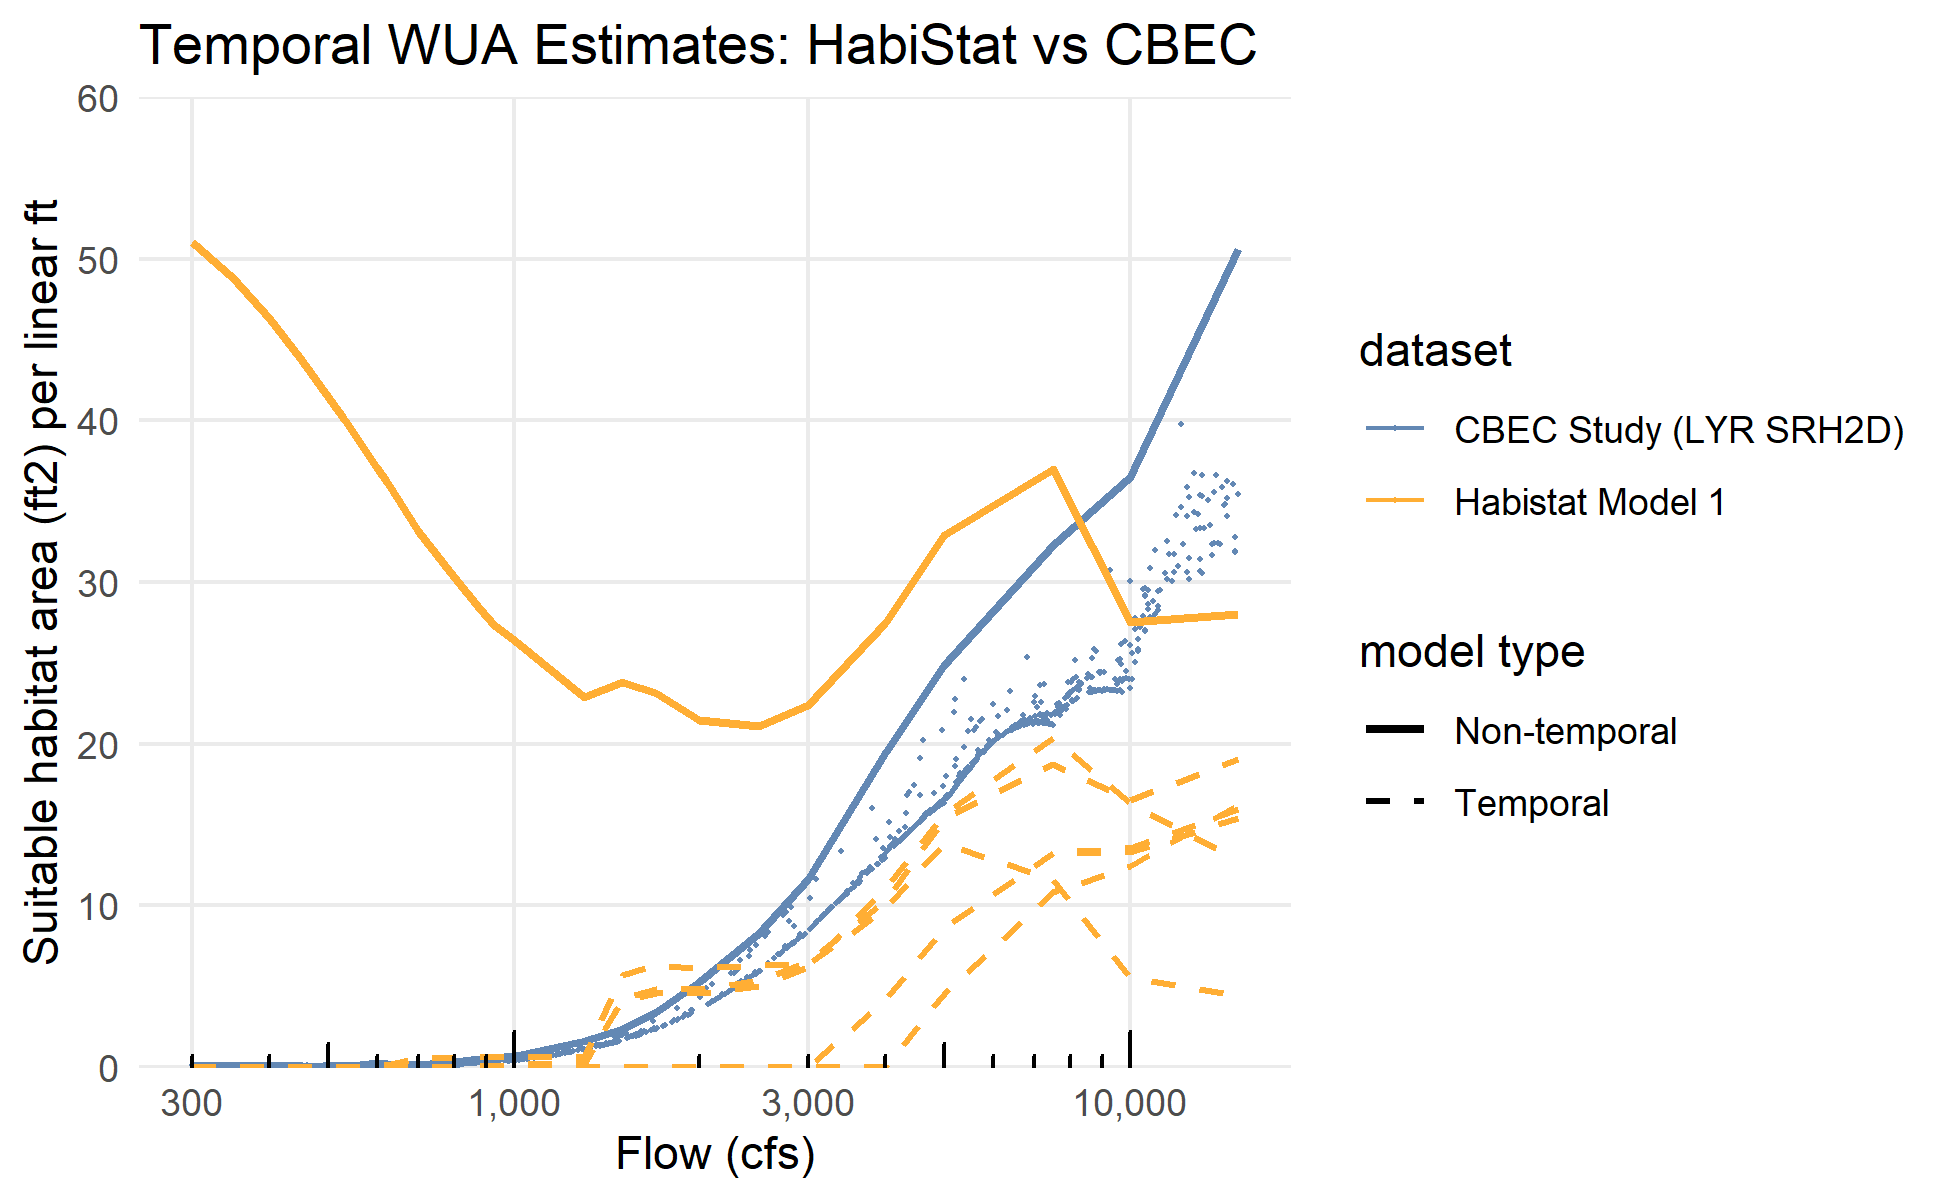
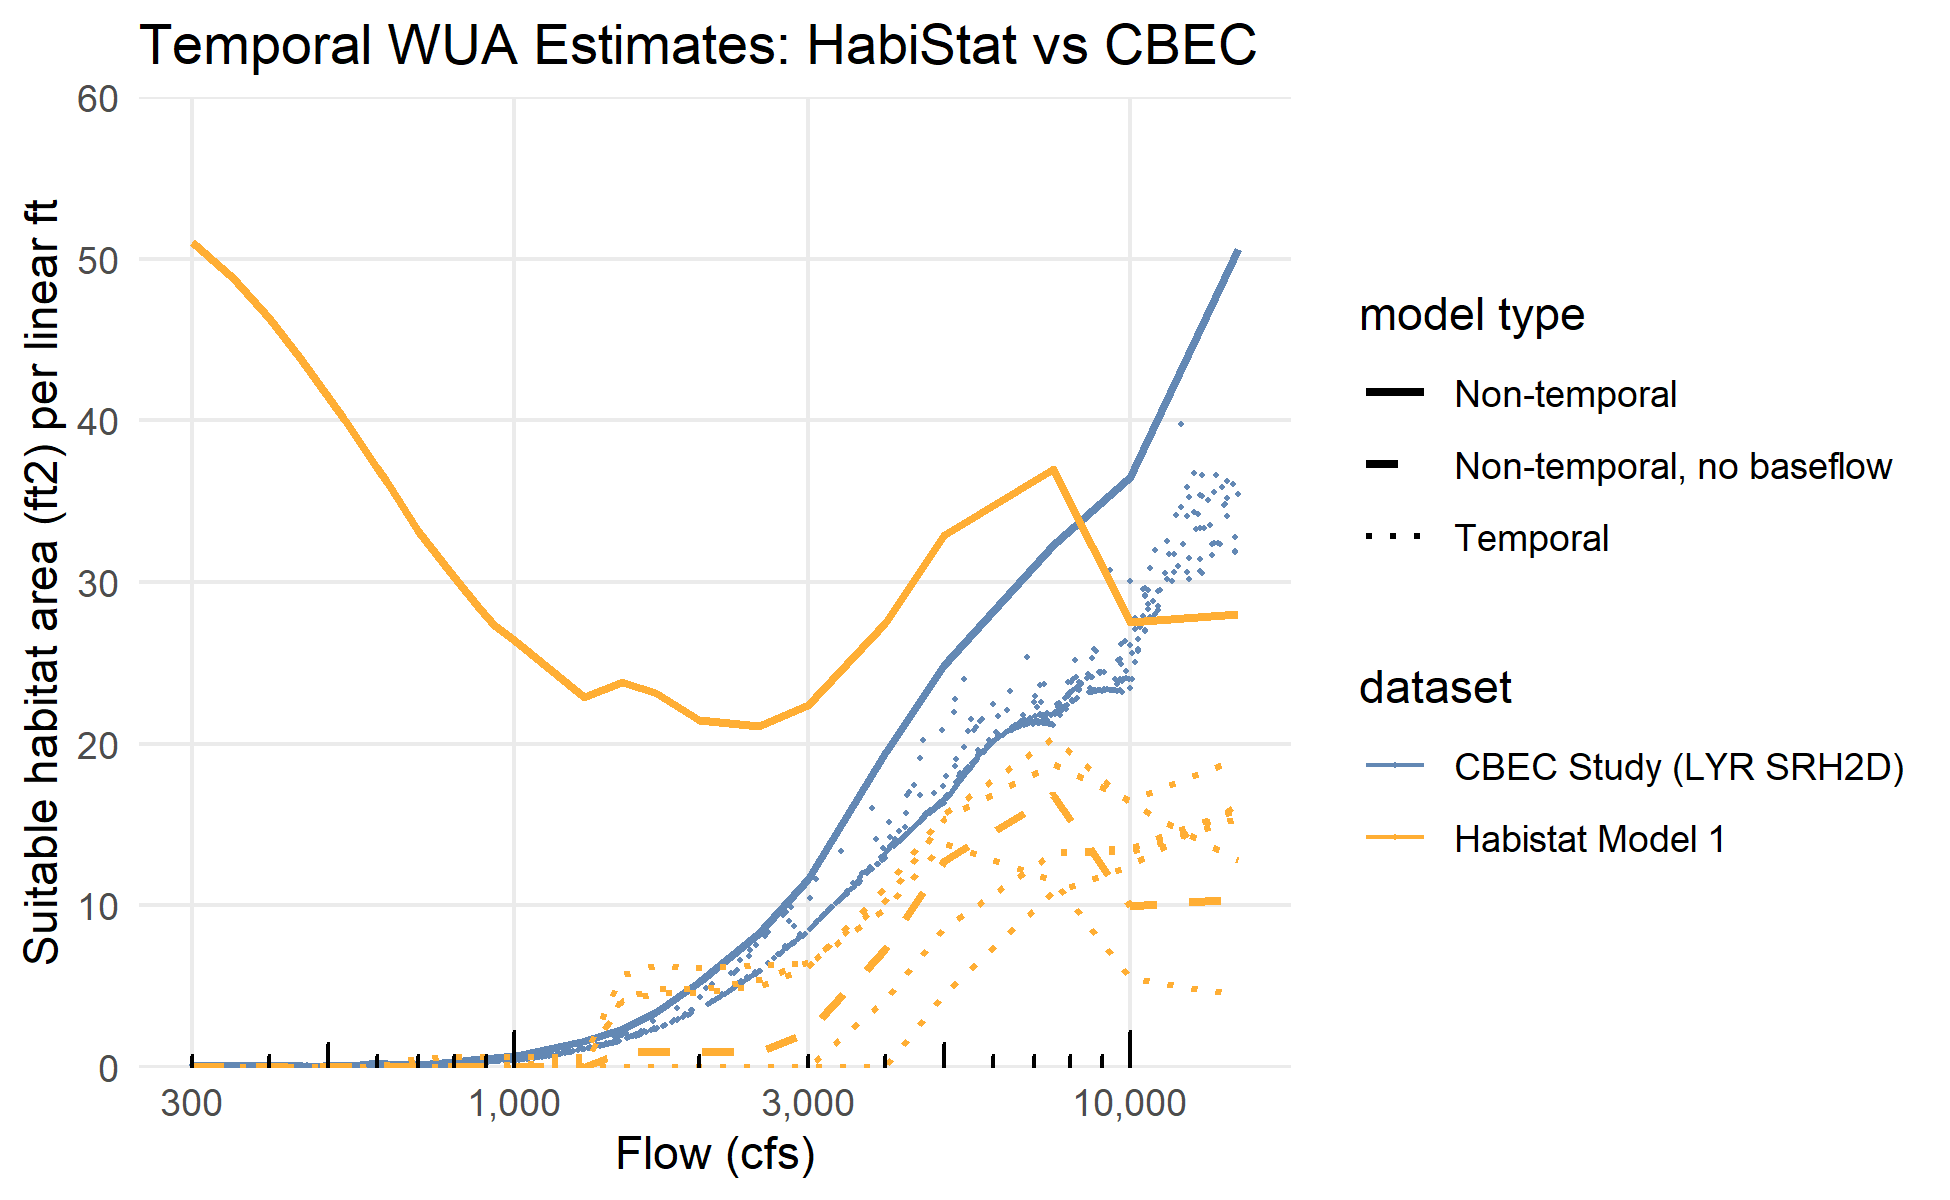
baseflow elimination shortcut function; move inundation duration and baseflow functions to separate file

diff --git a/data-raw/scripts/inundation-duration.md b/data-raw/scripts/inundation-duration.md
@@ -17,6 +17,7 @@ Flow Data Analysis for Inundation Duration HSI Component
   - [Version 1 (skip down to “Revised Version
     2”)](#version-1-skip-down-to-revised-version-2)
   - [Revised Version 2](#revised-version-2)
+- [Baseflow Elimination](#baseflow-elimination)
 - [Floodplain-Instream Split](#floodplain-instream-split)
 
 Duration suitability criteria from the CBEC LYR analysis and HQT are:
@@ -48,6 +49,7 @@ knitr::opts_chunk$set(eval=TRUE, fig.width=6.5, fig.height=4, dpi=300)
 theme_set(theme_minimal())
 
 source(here::here("data-raw", "scripts", "data-functions.R"))
+source(here::here("data-raw", "scripts", "inundation-duration-functions.R"))
 
 test_comids <- c(12071016, 12071090, 12071178, 12071286, 12075424, 7981730, 7981752, 7981808, 7981872, 7981878, 7981882, 7982794, 7982804, 7982810, 7982884, 7982886, 2819792, 2819796, 2819800, 2819818, 2819824, 2819862, 2821822, 2821824, 2821830, 2821832, 2821836)
 ```
@@ -82,41 +84,6 @@ water_year_types <- read_csv(here::here("data-raw", "source", "water_year_type",
     ## ℹ Specify the column types or set `show_col_types = FALSE` to quiet this message.
 
 ## Import Flow Time Series Data
-
-``` r
-# functions from interoperable flows
-
-retrieve_cdec_csv <- function(sta=character(), sen=character(), dur=character(), 
-                     start_date=ymd("1900-10-01"), end_date=ymd("2023-09-30"),
-                     dir="temp") {
-  name <- str_to_upper(paste0(sta, "_", sen, "_", dur))
-  filename <- file.path(dir, paste0(name,".csv.gz"))
-  if(!file.exists(filename)){
-    message(paste0("downloading to ",filename))
-    dir.create(dir, recursive = TRUE)
-    data_raw <-
-      httr::GET(
-      url="https://cdec.water.ca.gov/dynamicapp/req/CSVDataServlet",
-      query=list(Stations=sta, SensorNums=sen, dur_code=dur, 
-                 Start=format(start_date,"%Y-%m-%d"), End=format(end_date,"%Y-%m-%d"))) |> 
-      httr::content("raw") 
-    gzf <- gzcon(file(filename, "wb"))
-    data_raw |> writeBin(gzf)
-    close(gzf)
-  } else {
-    message(paste0(filename, " exists, loading"))
-  }
-  return(filename)
-}
-
-parse_cdec_csv <- function(filename) {
-  read_csv(filename, 
-           col_select = c(date_time = "DATE TIME", value = "VALUE"),
-           col_types = list(col_datetime(), col_double())) |>
-    janitor::clean_names() |>
-    mutate(water_year = if_else(month(date_time)>=10, year(date_time)+1, year(date_time)))
-}
-```
 
 ``` r
 # refer to https://cdec.water.ca.gov/webgis/?appid=cdecstation
@@ -336,18 +303,19 @@ durhsi_by_model_q |>
 
 ``` r
 # simple version, for data within one water year only
+
 calculate_days_inundated <- function(q_gauge, q_crit, stat="max") {
-  
+
   n_days <- length(q_gauge)
-  
-  exceedence_intervals <- 
+
+  exceedence_intervals <-
     tibble(exceeds_q = q_gauge > q_crit,
            exceedence_event = with(rle(exceeds_q), rep(seq_along(lengths), lengths))) |>
     group_by(exceedence_event) |>
     mutate(cumulative_exceedence = if_else(exceeds_q, seq_along(exceedence_event), 0)) |>
     filter(exceeds_q) |>
     summarize(duration_days = max(cumulative_exceedence))
-  
+
   if(stat=="sum"){
     return(sum(exceedence_intervals$duration_days))
   } else if(stat=="max") {
@@ -563,13 +531,6 @@ durhsi_by_model_q |>
 ### Revised Version 2
 
 ``` r
-# https://stackoverflow.com/a/73215592
-cummean.na.rm <- function(x) {
-  idx <- cumsum(!is.na(x))
-  x_filtered <- x[!is.na(x)]
-  cummean(x_filtered)[idx]
-}
-
 # simple version
 apply_durations_to_fsa_curve <- function(fsa, drc, fsa_q=q, fsa_wua=wua, drc_q=q, drc_dhsi=dhsi) {
   full_join(fsa |> transmute(q={{fsa_q}}, wua={{fsa_wua}}),
@@ -833,6 +794,57 @@ batch_res_ts |>
     ## using the `.groups` argument.
 
 ![](inundation-duration_files/figure-gfm/posthoc-duration-func-time-series-1.png)<!-- -->
+
+## Baseflow Elimination
+
+Function for simple elimination of baseflow given a threshold flow,
+without needing to know a full hydrology:
+
+``` r
+# EDIT: Moved this to inundation-duration-functions.R
+# eliminate_baseflow <- function(fsa, baseflow_threshold_flow, fsa_q=q, fsa_wua=wua, ...) {
+# 
+#   min_q <- 0
+#   max_q <- fsa |> pull({{fsa_q}}) |> max()
+# 
+#   baseflow_removal_drc <-
+#     fsa |>
+#     complete(flow_cfs = baseflow_threshold_flow) |>
+#     arrange(flow_cfs) |>
+#     transmute(q = flow_cfs,
+#               dhsi = if_else(flow_cfs <= baseflow_threshold_flow, 0, 1))
+# 
+#   apply_durations_to_fsa_curve(fsa=fsa, drc=baseflow_removal_drc,
+#                                fsa_q={{fsa_q}}, fsa_wua={{fsa_wua}}, ...) |>
+#     transmute({{fsa_q}} := q,
+#               {{fsa_wua}} := durwua)
+# 
+# }
+
+test_threshold <- 330 #cfs
+
+test_output <- fsa |> 
+  eliminate_baseflow(test_threshold, fsa_q=flow_cfs, fsa_wua=wua) |>
+  glimpse()
+```
+
+    ## Rows: 19
+    ## Columns: 2
+    ## $ flow_cfs <dbl> 100, 250, 300, 330, 400, 500, 600, 1000, 3000, 5000, 6000, 70…
+    ## $ wua      <dbl> 0.0000000, 0.0000000, 0.0000000, 0.0000000, 0.6254589, 1.4446…
+
+``` r
+test_output |> 
+  ggplot() + 
+  geom_line(aes(x=flow_cfs, y=wua, color="original")) + 
+  geom_point(aes(x=flow_cfs, y=wua, color="original")) + 
+  geom_line(data=fsa, aes(x=flow_cfs, y=wua, color="baseflow removed")) +
+  geom_point(data=fsa, aes(x=flow_cfs, y=wua, color="baseflow removed")) +
+  geom_vline(aes(xintercept = test_threshold), linetype="dashed") +
+  scale_x_log10()
+```
+
+![](inundation-duration_files/figure-gfm/eliminate-bfc-1.png)<!-- -->
 
 ## Floodplain-Instream Split
 

diff --git a/data-raw/scripts/model-expl.md b/data-raw/scripts/model-expl.md
@@ -3333,6 +3333,16 @@ yuba_wua_predicted_temporal_summary <-
     ## `.groups` argument.
 
 ``` r
+source(here::here("data-raw", "scripts", "inundation-duration-functions.R"))
+yuba_wua_predicted_summary_bfcremoved <- 
+  yuba_wua_predicted_temporal_summary |> group_by(flow_cfs, wua) |> summarize() |> ungroup() |>
+  eliminate_baseflow(600, fsa_q=flow_cfs, fsa_wua=wua)
+```
+
+    ## `summarise()` has grouped output by 'flow_cfs'. You can override using the
+    ## `.groups` argument.
+
+``` r
 yuba_wua_predicted_temporal_ts <-
   readRDS(here::here("data-raw", "results", "durhsi_applied_to_comid_ts.Rds")) |>
   ungroup() |>
@@ -3362,12 +3372,14 @@ ggplot() +
             aes(x = flow_cfs, y = durwua, group = water_year, color = "Habistat Model 1", linetype = "Temporal", linewidth = "Temporal")) +
   geom_line(data = yuba_wua_predicted_temporal_summary,
             aes(x = flow_cfs, y = wua, color = "Habistat Model 1", linetype = "Non-temporal", linewidth = "Non-temporal")) +
+  geom_line(data = yuba_wua_predicted_summary_bfcremoved,
+            aes(x = flow_cfs, y = wua, color = "Habistat Model 1", linetype = "Non-temporal, no baseflow", linewidth = "Non-temporal, no baseflow")) +
   scale_x_log10(labels = scales::label_comma(), limits = c(NA, 15000)) + 
   scale_y_continuous(limits = c(0, 60), expand = c(0, 0)) +
   xlab("Flow (cfs)") + ylab("Suitable habitat area (ft2) per linear ft") +
   theme(panel.grid.minor = element_blank()) + annotation_logticks(sides = "b") +
-  scale_linewidth_manual(name = "model type", values = c("Non-temporal" = 1, "Temporal" = 0.7)) +
-  scale_linetype_manual(name = "model type", values = c("Non-temporal" = "solid", "Temporal" = "dashed")) + 
+  scale_linewidth_manual(name = "model type", values = c("Non-temporal" = 1, "Temporal" = 0.7, "Non-temporal, no baseflow" = 1)) +
+  scale_linetype_manual(name = "model type", values = c("Non-temporal" = "solid", "Temporal" = "dotted", "Non-temporal, no baseflow" = "dashed")) + 
   ggtitle("Temporal WUA Estimates: HabiStat vs CBEC")  +
   scale_color_manual(name = "dataset", 
                      values = c("CBEC Study (LYR SRH2D)" = "#6388b4",
@@ -3380,5 +3392,7 @@ ggplot() +
 
     ## Warning: Removed 30 rows containing missing values (`geom_line()`).
     ## Removed 30 rows containing missing values (`geom_line()`).
+
+    ## Warning: Removed 5 rows containing missing values (`geom_line()`).
 
 ![](model-expl_files/figure-gfm/yuba-comparison-temporal-1.png)<!-- -->
